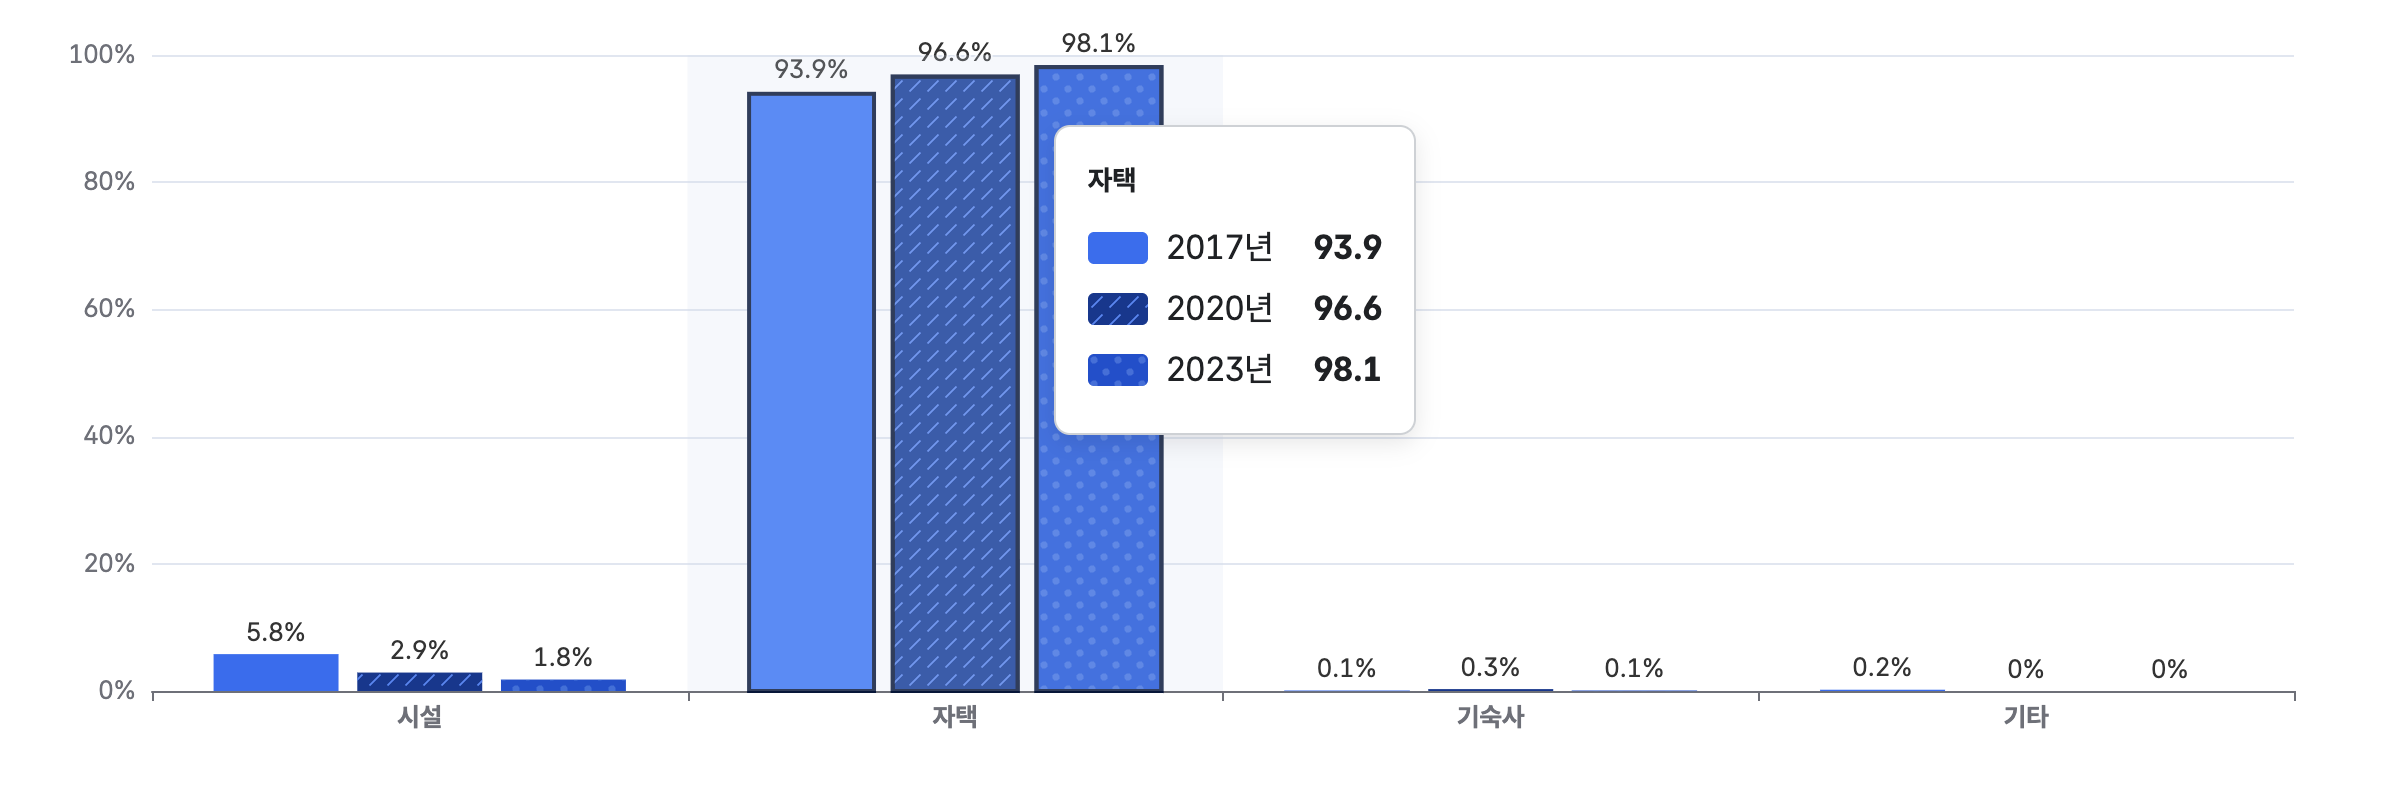
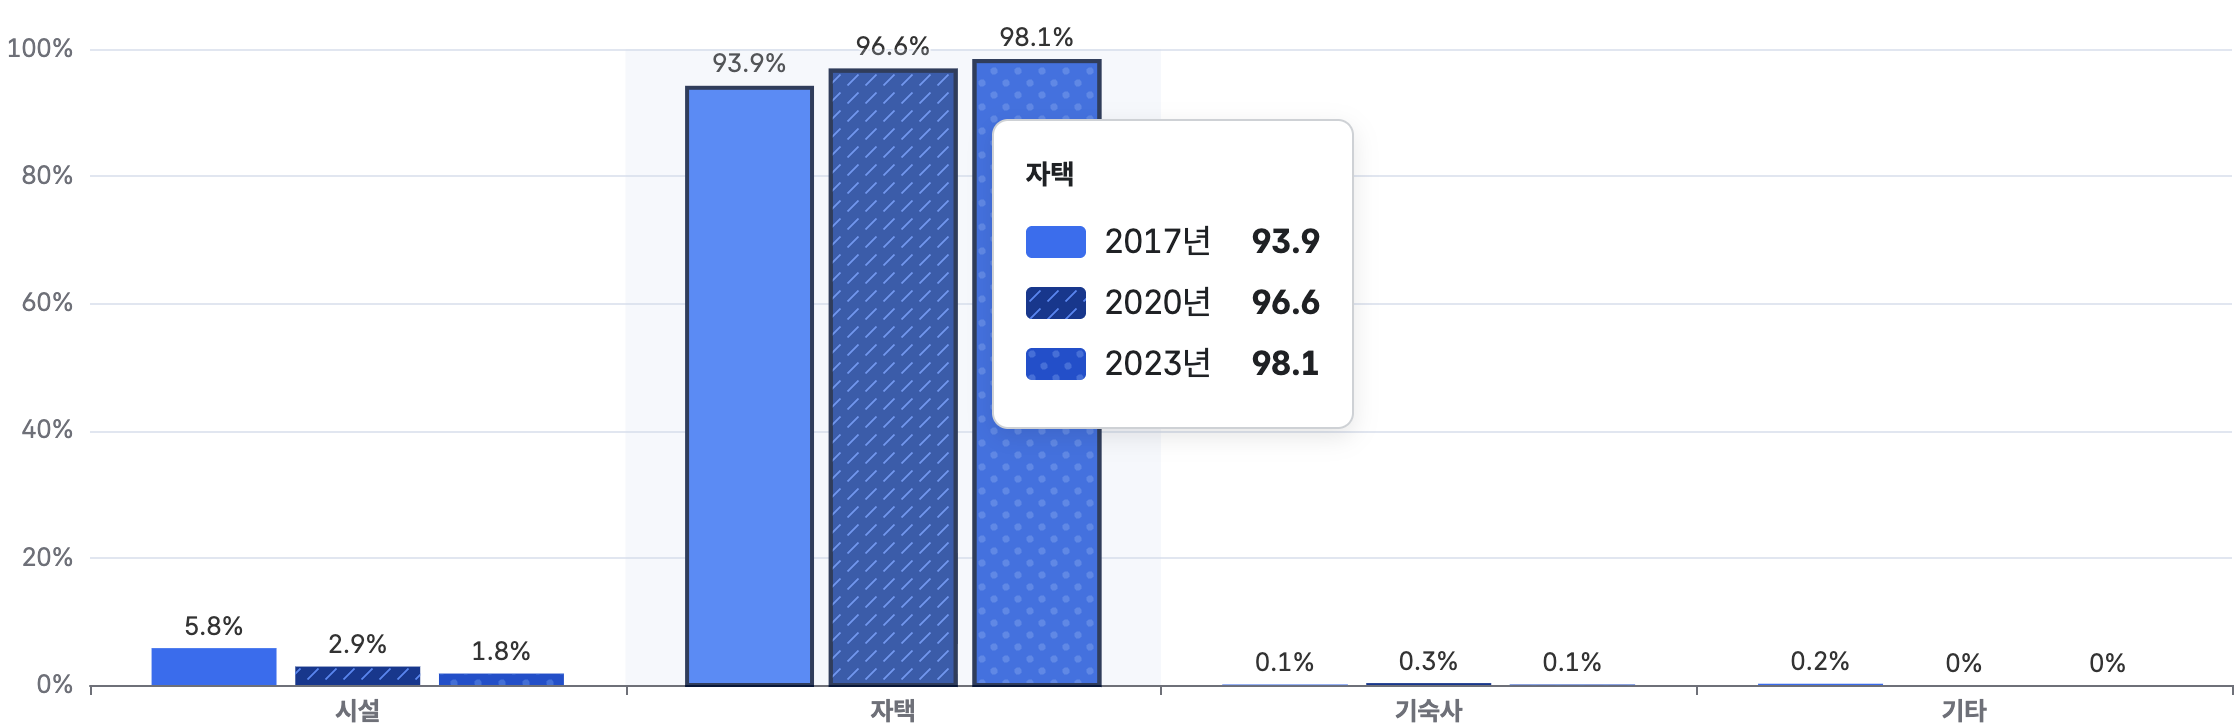
시계열 시각화 상세: 그래프 범례도 Figma 이미지 그대로 임시로 넣음 (HTML 범례 제거)

diff --git a/_common/resources/css/krds-custom.css b/_common/resources/css/krds-custom.css
@@ -44,15 +44,11 @@
   --cm-color-shadow1: var(--krds-light-color-alpha-shadow1);
   --cm-color-button-primary: var(--krds-light-color-button-primary-fill);
   --cm-color-badge-border-light: var(--krds-color-light-gray-10);
+  --cm-color-ai-ask: var(--krds-color-light-primary-60);
   --cm-color-shadow2: var(--krds-light-color-alpha-shadow2);
   --cm-color-shadow3: var(--krds-light-color-alpha-shadow3);
   --cm-color-border-gray-dark: var(--krds-light-color-border-gray-dark);
   --cm-color-shadow-sticky: rgba(42, 49, 58, 0.2) /* Figma 고정 칸 그림자 (KRDS 토큰 없음) */;
-  --cm-color-chart-1: var(--krds-color-light-primary-50);
-  --cm-color-chart-2: var(--krds-color-light-primary-80);
-  --cm-color-chart-2-line: var(--krds-color-light-primary-50);
-  --cm-color-chart-3: var(--krds-color-light-primary-60);
-  --cm-color-chart-3-dot: var(--krds-color-light-primary-40);
   --cm-color-border-secondary-20: var(--krds-color-light-secondary-20);
 }
 
@@ -1681,46 +1677,11 @@
   border-radius: var(--krds-radius-medium3);
   background-color: var(--cm-color-surface-white);
 }
-.cm-chart-legend {
-  display: flex;
-  flex-wrap: wrap;
-  justify-content: center;
-  gap: var(--krds-gap-1);
-}
-/* 범례 버튼 : KRDS 범례 컴포넌트 없음, Figma 그대로 (primary 연한 바탕 + primary 테두리) */
-.cm-chart-legend button {
-  display: inline-flex;
-  align-items: center;
-  gap: var(--krds-gap-2);
-  height: var(--krds-number-12);
-  padding: 0 var(--krds-padding-4);
-  border: 0.1rem solid var(--cm-color-border-primary);
-  border-radius: var(--krds-radius-small2);
-  background-color: var(--cm-color-row-hover);
-  font-size: var(--krds-pc-font-size-label-xsmall);
-  color: var(--cm-color-text-primary);
-}
-.cm-chart-legend button[aria-pressed="false"] {
-  border-color: var(--cm-color-border-light);
-  background-color: var(--cm-color-surface-white);
-  color: var(--cm-color-text-subtle);
-}
-/* 계열 색 · 패턴 : 차트 라이브러리 계열 설정과 같은 값으로 맞춤 (Figma 그래프 색) */
-.cm-chart-legend .swatch {
-  width: var(--krds-number-8);
-  height: var(--krds-number-7);
-  border-radius: 0.2rem;
-}
-.cm-chart-legend .swatch.y1 {
-  background-color: var(--cm-color-chart-1);
-}
-.cm-chart-legend .swatch.y2 {
-  background: repeating-linear-gradient(-45deg, var(--cm-color-chart-2) 0 0.3rem, var(--cm-color-chart-2-line) 0.3rem 0.4rem);
-}
-.cm-chart-legend .swatch.y3 {
-  background: radial-gradient(circle, var(--cm-color-chart-3-dot) 0.08rem, var(--cm-color-chart-3) 0.12rem) 0 0 / 0.4rem 0.4rem;
-}
+/* [임시] 그래프 자리 : Figma 그래프 이미지를 그대로 넣음 (그래프 작업 때 차트 라이브러리로 바꿈) */
 .cm-chart-area {
+  display: flex;
+  flex-direction: column;
+  gap: var(--krds-gap-5);
   width: 100%;
 }
 .cm-chart-area img {
@@ -2272,7 +2233,7 @@
   line-height: 1.5;
 }
 .cm-ai-list .ask .bubble {
-  background-color: var(--cm-color-chart-3); /* Figma primary-60 */
+  background-color: var(--cm-color-ai-ask); /* Figma primary-60 */
   text-align: right;
   color: var(--cm-color-text-inverse);
 }
@@ -2458,15 +2419,11 @@
   --cm-color-shadow1: var(--krds-high-contrast-color-alpha-shadow1);
   --cm-color-button-primary: var(--krds-high-contrast-color-button-primary-fill);
   --cm-color-badge-border-light: var(--krds-color-high-contrast-gray-90);
+  --cm-color-ai-ask: var(--krds-color-high-contrast-primary-60);
   --cm-color-shadow2: var(--krds-high-contrast-color-alpha-shadow2);
   --cm-color-shadow3: var(--krds-high-contrast-color-alpha-shadow3);
   --cm-color-border-gray-dark: var(--krds-high-contrast-color-border-gray-dark);
   --cm-color-shadow-sticky: var(--krds-high-contrast-color-alpha-shadow3);
-  --cm-color-chart-1: var(--krds-color-high-contrast-primary-50);
-  --cm-color-chart-2: var(--krds-color-high-contrast-primary-80);
-  --cm-color-chart-2-line: var(--krds-color-high-contrast-primary-50);
-  --cm-color-chart-3: var(--krds-color-high-contrast-primary-60);
-  --cm-color-chart-3-dot: var(--krds-color-high-contrast-primary-40);
   --cm-color-border-secondary-20: var(--krds-high-contrast-color-border-secondary-light);
 }
 @media (prefers-color-scheme: dark) {
@@ -2503,15 +2460,11 @@
     --cm-color-shadow1: var(--krds-high-contrast-color-alpha-shadow1);
     --cm-color-button-primary: var(--krds-high-contrast-color-button-primary-fill);
     --cm-color-badge-border-light: var(--krds-color-high-contrast-gray-90);
+    --cm-color-ai-ask: var(--krds-color-high-contrast-primary-60);
     --cm-color-shadow2: var(--krds-high-contrast-color-alpha-shadow2);
     --cm-color-shadow3: var(--krds-high-contrast-color-alpha-shadow3);
     --cm-color-border-gray-dark: var(--krds-high-contrast-color-border-gray-dark);
     --cm-color-shadow-sticky: var(--krds-high-contrast-color-alpha-shadow3);
-    --cm-color-chart-1: var(--krds-color-high-contrast-primary-50);
-    --cm-color-chart-2: var(--krds-color-high-contrast-primary-80);
-    --cm-color-chart-2-line: var(--krds-color-high-contrast-primary-50);
-    --cm-color-chart-3: var(--krds-color-high-contrast-primary-60);
-    --cm-color-chart-3-dot: var(--krds-color-high-contrast-primary-40);
     --cm-color-border-secondary-20: var(--krds-high-contrast-color-border-secondary-light);
   }
 }

diff --git a/kr/html/stat/timeseries_view.html b/kr/html/stat/timeseries_view.html
@@ -122,16 +122,12 @@
             </div>
           </div>
 
-          <!-- 차트 : 범례는 HTML(계열 보이기·숨기기 누름 버튼), 그래프는 개발 시 차트 라이브러리로 그림
-               퍼블리싱에서는 Figma 그래프 이미지(kr/img/stat/sample_chart_bar.png)를 예시로 둠. 같은 값은 아래 통계표에 있음 -->
+          <!-- 차트 : [임시] Figma 그래프 이미지(범례 · 그래프)를 그대로 넣음. 그래프 작업 때 차트 라이브러리로 바꿈
+               같은 값은 아래 통계표에 있음 -->
           <div class="cm-chart-box">
-            <ul class="cm-chart-legend" aria-label="범례">
-              <li><button type="button" aria-pressed="true"><span class="swatch y1" aria-hidden="true"></span>2017년</button></li>
-              <li><button type="button" aria-pressed="true"><span class="swatch y2" aria-hidden="true"></span>2020년</button></li>
-              <li><button type="button" aria-pressed="true"><span class="swatch y3" aria-hidden="true"></span>2023년</button></li>
-            </ul>
             <div class="cm-chart-area">
-              <img src="../../img/stat/sample_chart_bar.png" alt="학교과정 초등학교 기준 거주 형태별 비율 세로막대 그래프. 자세한 값은 아래 통계표를 참고하세요.">
+              <img src="../../img/stat/sample_chart_bar_legend.png" alt="" class="cm-chart-legend-img">
+              <img src="../../img/stat/sample_chart_bar.png" alt="거주 형태별 비율 세로막대 그래프(2017년·2020년·2023년). 자세한 값은 아래 통계표를 참고하세요.">
             </div>
           </div>
         </section>
